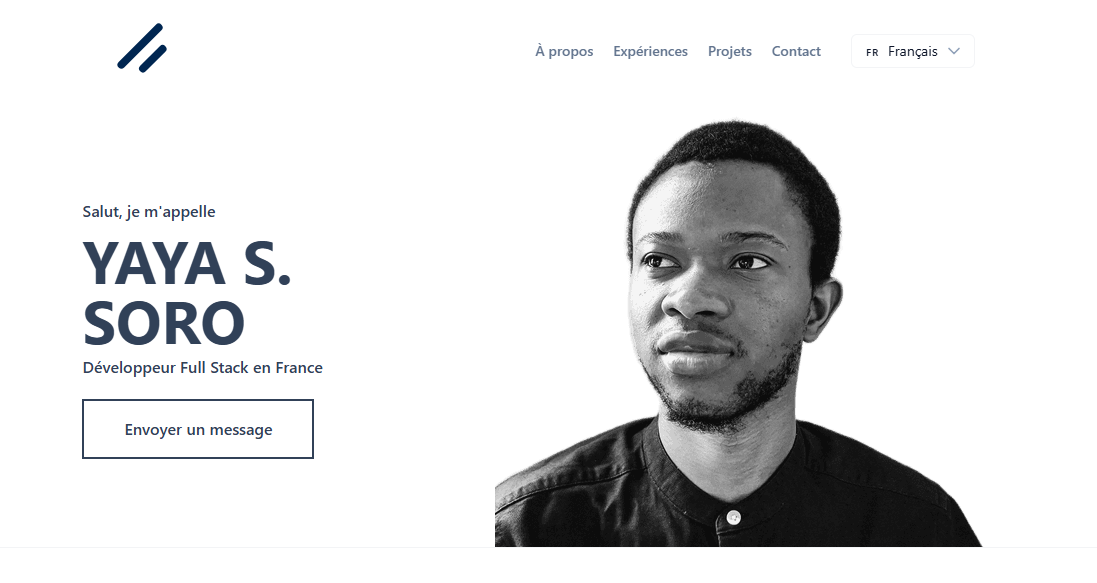
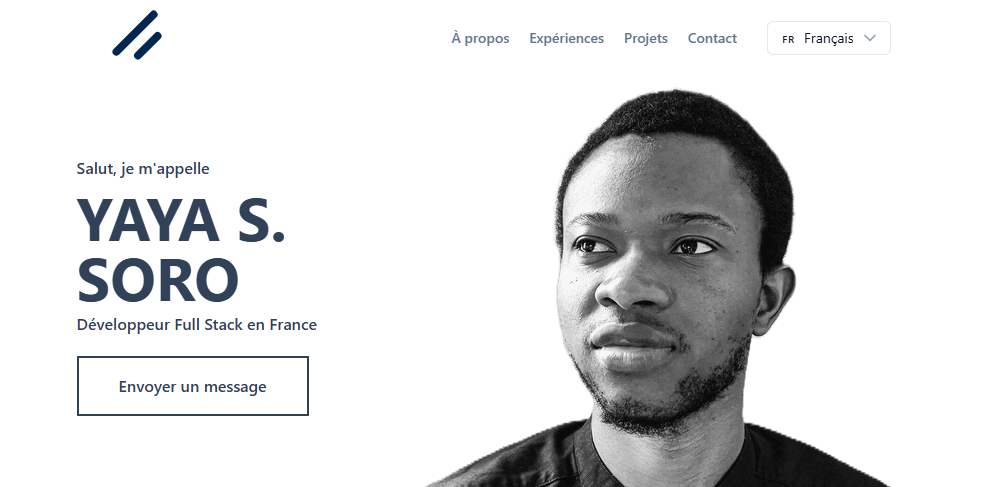
update header yaya image and bottom height header section

diff --git a/app/components/home/header/body/HeaderBody.vue b/app/components/home/header/body/HeaderBody.vue
@@ -5,7 +5,7 @@
     <HomeHeaderBodyTop />
   </div>
   <!-- Header bottom -->
-  <div class="w-full flex justify-center min-h-[437px] border-b border-gray-200">
+  <div class="w-full flex justify-center min-h-[416px] border-b border-gray-200">
     <HomeHeaderBodyBottom />
   </div>
 </template>
